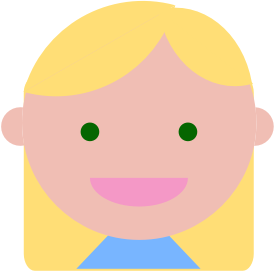
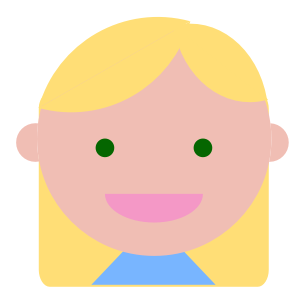
signup styles

diff --git a/client/app/views/signup.html b/client/app/views/signup.html
@@ -46,12 +46,12 @@
 
 		<label class="col-md-4 control-label" for="signup"></label>
 		<div class="col-md-5">
-			<button ng-click="signup.addMembers()" id="addMembers" name="addMembers" class="btn btn-success btn-block">Add Members!</button>
+			<button ng-click="signup.addMembers()" id="addMembers" name="addMembers" class="signup-buttons btn btn-success btn-block">Add Members!</button>
 		</div>
 
 		<label class="col-md-4 control-label" for="signup"></label>
 		<div class="col-md-5">
-			<button ng-click="signup.cancel()" id="cancel" name="cancel" class="btn btn-success btn-block">Cancel</button>
+			<button ng-click="signup.cancel()" id="cancel" name="cancel" class="signup-buttons btn btn-success btn-block">Cancel</button>
 		</div>
 	</div>
 	</div>
@@ -62,10 +62,10 @@
 		<h3 >Add A New Family Member</h3>
 		<hr>
 		<br>
-		<div class="add-member" style='height:100%; width: 100%'>
+		<div class="add-member">
 				<form class="form-horizontal">
 
-				<div class="add-member" style='height:100%; width: 100%'>
+				<div class="add-member">
 					<form class="form-horizontal">
 
 					<!-- Text input-->
@@ -78,7 +78,7 @@
 
 					<!-- Text input-->
 					<div class="form-group">
-						<label class="col-md-4 control-label" for="type">Types of Family Member</label>  
+						<label class="col-md-4 control-label" for="type">Type of Family Member</label>  
 						<div class="col-md-5">
 						<input id="type" name="type" ng-model="member.type" type="text" placeholder="Dad" class="form-control input-md">			
 						</div>
@@ -86,10 +86,10 @@
 
 					<div class="form-group">
 						<label class="col-md-4 control-label" for="profilePic">Profile Picture</label>
-						<ul class="list-inline"> <!--IMPROVE LIST STYLE IN CSS-->
+						<ul class="avatar-area list-inline"> <!--IMPROVE LIST STYLE IN CSS-->
 				      <li ng-repeat="item in profilePicItems">
 				        <div>
-				          <img ng-src="{{item.path}}" alt="{{item.name}}" ng-click="$event.preventDefault(); member.profilePic = item.path;" style="height:90px; width:90px;margin: 0 10px 0 10px;">
+				          <img class="signup-avatars" ng-src="{{item.path}}" alt="{{item.name}}" ng-click="$event.preventDefault(); member.profilePic = item.path;">
 				        </div>
 				       <!--  <div class="mood-name">
 				          <a href="#" ng-click="$event.preventDefault(); $ctrl.selected.item = item; $ctrl.buttonState=$ctrl.buttonState+1">{{item.name}}</a>
@@ -109,17 +109,17 @@
 
 				<label class="col-md-4 control-label" for="signup"></label>
 				<div class="col-md-5">
-					<button ng-click="signup.addNewMember()" id="addMember" name="addMember" class="btn btn-success btn-block">Add New Member!</button>
+					<button ng-click="signup.addNewMember()" id="addMember" name="addMember" class="signup-buttons btn btn-success btn-block">Add New Member!</button>
 				</div>
 
 				<label class="col-md-4 control-label" for="signup"></label>
 				<div class="col-md-5">
-					<button ng-click="signup.cancel()" id="addMember" name="addMember" class="btn btn-success btn-block">Cancel</button>
+					<button ng-click="signup.cancel()" id="addMember" name="addMember" class="signup-buttons btn btn-success btn-block">Cancel</button>
 				</div>
 
 				<label class="col-md-4 control-label" for="signup"></label>
-				<div class="col-md-5">
-					<button ng-click="signup.submit()" id="submit" name="submit" class="btn btn-success btn-block">Done!</button>
+				<div class="col-md-5" style="margin-bottom:50px;">
+					<button ng-click="signup.submit()" id="submit" name="submit" class="signup-buttons btn btn-success btn-block">Done!</button>
 				</div>
 
 			</div>	

diff --git a/client/app/scripts/controllers/signup.js b/client/app/scripts/controllers/signup.js
@@ -23,47 +23,45 @@ angular.module('FamilySleep') // make sure this is set to whatever it is in your
 		$scope.isAddMemberForm = false;
 		$scope.profilePicItems = [
 			{name:'p1',
-			path:'images/avatars/boycircle.png'},
-			{name:'p2',
-			path:'images/avatars/dadcircle.png'},
-			{name:'p3',
-			path:'images/avatars/girlcircle.png'},
-			{name:'p4',
 			path:'images/avatars/momcircle.png'},
-			{name:'p5',
-			path:'images/avatars/momcircle.png'}, 
-			{name:'p6',
-			path:'images/avatars/d1.png'},
-			{name:'p7',
-			path:'images/avatars/d2.png'}, 
-			{name:'p8',
-			path:'images/avatars/d3.png'},
-			{name:'p9',
-			path:'images/avatars/d4.png'}, 
-			{name:'p10',
-			path:'images/avatars/f1.png'},
-			{name:'p11',
-			path:'images/avatars/f2.png'},
-			{name:'p12',
-			path:'images/avatars/f3.png'},
-			{name:'p10',
-			path:'images/avatars/f4.png'},
-			{name:'p11',
-			path:'images/avatars/m1.png'},
-			{name:'p12',
-			path:'images/avatars/m2.png'},
-			{name:'p13',
-			path:'images/avatars/m3.png'},
-			{name:'p14',
-			path:'images/avatars/m5.png'},
-			{name:'p15',
+			{name:'p2',
 			path:'images/avatars/mo1.png'},
-			{name:'p16',
+			{name:'p3',
 			path:'images/avatars/mo2.png'},
-			{name:'p17',
+			{name:'p4',
 			path:'images/avatars/mo3.png'},
+			{name:'p5',
+			path:'images/avatars/mo4.png'},
+			{name:'p6',
+			path:'images/avatars/dadcircle.png'},
+			{name:'p7',
+			path:'images/avatars/d1.png'},
+			{name:'p8',
+			path:'images/avatars/d2.png'},
+			{name:'p9',
+			path:'images/avatars/d3.png'},
+			{name:'p10',
+			path:'images/avatars/d4.png'},
+			{name:'p11',
+			path:'images/avatars/girlcircle.png'},
+			{name:'p12',
+			path:'images/avatars/f4.png'},
+			{name:'p13',
+			path:'images/avatars/f2.png'},
+			{name:'p14',
+			path:'images/avatars/f3.png'},
+			{name:'p15',
+			path:'images/avatars/f1.png'},
+			{name:'p16',
+			path:'images/avatars/boycircle.png'},
+			{name:'p17',
+			path:'images/avatars/m1.png'},
+			{name:'p18',
+			path:'images/avatars/m2.png'},
 			{name:'p19',
-			path:'images/avatars/mo4.png'}
+			path:'images/avatars/m3.png'},
+			{name:'p20',
+			path:'images/avatars/m5.png'}
 		];
 
 		// In our signup.html, we'll be using the ng-model

diff --git a/client/app/styles/partials/_signup.scss b/client/app/styles/partials/_signup.scss
@@ -1,9 +1,31 @@
 .signup-container{
-    margin-top: 5em;
+    //margin-top: 5em;
 }
 
 .signup-header{
     text-align: center;
     color: $gray-light;
     margin-bottom: 1em;
+}
+
+.add-member {
+	height:100%; 
+	width: 100%;
+}
+
+.signup-avatars {
+	height:90px; 
+	width:90px;
+	margin: 0 10px 10px 10px;
+}
+
+.avatar-area {
+    width: 650px;
+     margin-left: 300px;
+}
+
+.signup-buttons {
+	width: 333px;
+    margin-left: -5px;
+    margin-top: 10px;
 }
